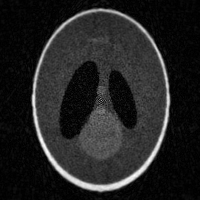
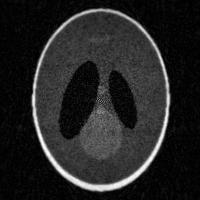
Add experiment for 90 angles

diff --git a/scripts/MAP2D.m b/scripts/MAP2D.m
@@ -10,7 +10,7 @@ sigmaNoiseFraction = 0.05;
 max_shift_amplitude = 0;
 filename = ...
     '../results/bayesian_estimation/error_angles_and_shifts/5_percent_noise/';
-num_theta = 180;
+num_theta = 90;
 max_angle_err = 1;
 max_shift_err = 0;
 resolution_angle = 1;
@@ -27,7 +27,7 @@ theta_to_write = zeros(10, num_theta);
 imwrite(P, strcat(filename, num2str(num_theta), '/original_image.png'));
 
 % Define ground truth angles and take the tomographic projection.
-theta = 0:179;
+theta = 0:2:178;
 [projections, svector] = radon(P, theta);
 
 % The original values.
@@ -162,7 +162,7 @@ for q=1:no_of_iterations
     recons_f_denom_weighted = ...
         weights./conv((recons_f_denom_prior.*weights), w, 'same');
     reconstructed_f_image = ...
-        reconstructed_f_numerator.*recons_f_denom_weighted.*1e5;
+        reconstructed_f_numerator.*recons_f_denom_weighted.*1e6;
     reconstructed_f_image = ...
         reshape(reconstructed_f_image, [output_size, output_size]);
 
